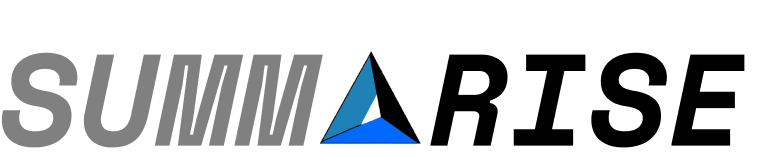
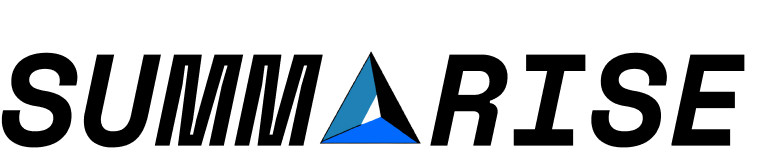
create hero + demo component and install framer motion

Changed region(s): [[0.0, 0.3106, 0.4231, 0.9317]]

diff --git a/src/index.css b/src/index.css
@@ -1,15 +1,36 @@
-@import url('https://fonts.googleapis.com/css2?family=Inter&family=Nunito+Sans:opsz@6..12&family=Space+Mono:ital,wght@0,400;0,700;1,700&display=swap');
+@import url("https://fonts.googleapis.com/css2?family=Inter&family=Nunito+Sans:opsz@6..12&family=Space+Mono:ital,wght@0,400;0,700;1,700&display=swap");
 
 @tailwind base;
 @tailwind components;
 @tailwind utilities;
 
-.gradient {
-    background-image: linear-gradient(to right, #a2a7ad, #797a7f, #515053, #2b2a2b, #000000);
-    -webkit-background-clip: text;
-    -webkit-text-fill-color: transparent;
+html,
+body {
+  background-color: #faf9f6;
 }
 
-html, body {
-    background-color: #FAF9F6
+/* Gradient was heavily inspired by JS Mastery and from https://dub.sh/ */
+.bg-gradient {
+  height: fit-content;
+  z-index: 3;
+  width: 100%;
+  max-width: 640px;
+  background-image: radial-gradient(
+      at 27% 37%,
+      hsla(215, 98%, 61%, 1) 0px,
+      transparent 0%
+    ),
+    radial-gradient(at 97% 21%, hsla(125, 98%, 72%, 1) 0px, transparent 50%),
+    radial-gradient(at 52% 99%, hsla(354, 98%, 61%, 1) 0px, transparent 50%),
+    radial-gradient(at 10% 29%, hsla(256, 96%, 67%, 1) 0px, transparent 50%),
+    radial-gradient(at 97% 96%, hsla(38, 60%, 74%, 1) 0px, transparent 50%),
+    radial-gradient(at 33% 50%, hsla(222, 67%, 73%, 1) 0px, transparent 50%),
+    radial-gradient(at 79% 53%, hsla(343, 68%, 79%, 1) 0px, transparent 50%);
+  position: absolute;
+  content: "";
+  width: 100%;
+  height: 100%;
+  filter: blur(100px) saturate(150%);
+  top: 80px;
+  opacity: 0.15;
 }

diff --git a/src/components/Hero.jsx b/src/components/Hero.jsx
@@ -1,0 +1,24 @@
+import React from "react";
+import Title from "../assets/title.png";
+import Logo from "../assets/logo.png";
+const Hero = () => {
+  return (
+    <div>
+      <div className="flex justify-between content-center">
+        <div className="flex items-center">
+        <img src={Logo} className="w-28" alt="" />
+        <p className="font-bold -ml-4">OPENAI ARTICLE SUMMARISER</p>
+        </div>
+      </div>
+      <div className="flex flex-col w-5/6 mx-auto">
+        <img className="mx-auto" src={Title} alt="Page title" />
+        <p className="text-center italic text-sm sm:text-lg">
+          SUMMARISE ANY ARTICLE IN AN INSTANT
+        </p>
+        <hr className="border-slate-200 mb-3 mt-3" />
+      </div>
+    </div>
+  );
+};
+
+export default Hero;

diff --git a/src/App.jsx b/src/App.jsx
@@ -1,14 +1,19 @@
-import Title from './assets/title.png'
+import Title from "./assets/title.png";
+import Hero from "./components/Hero";
+import Demo from "./components/Demo";
 
 const App = () => {
   return (
-    <div className="font-space w-5/6 mx-auto">
-        <div className="flex flex-col">
-            <img className="mx-auto" src={Title} alt="" />
-            <p className="gradient text-center italic text-sm sm:text-lg font-bold">SUMMARISE ANY ARTICLE IN AN INSTANT</p>
-        </div>
-    </div>
-  )
-}
+    <main>
+      <div>
+        <div className="bg-gradient" />
+      </div>
+      <div className="app font-space">
+        <Hero />
+        <Demo />
+      </div>
+    </main>
+  );
+};
 
-export default App
+export default App;

diff --git a/src/components/Demo.jsx b/src/components/Demo.jsx
@@ -1,0 +1,9 @@
+import React from 'react'
+
+const Demo = () => {
+  return (
+    <div>Demo</div>
+  )
+}
+
+export default Demo
